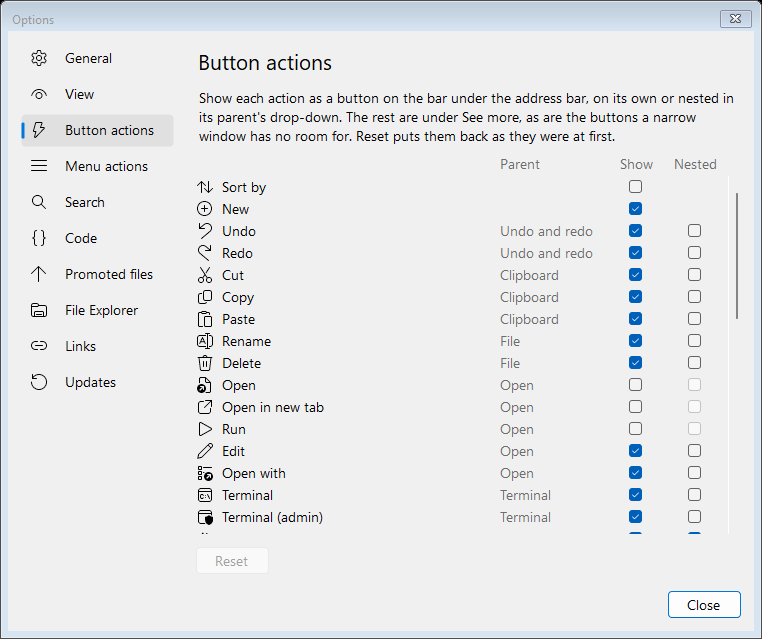
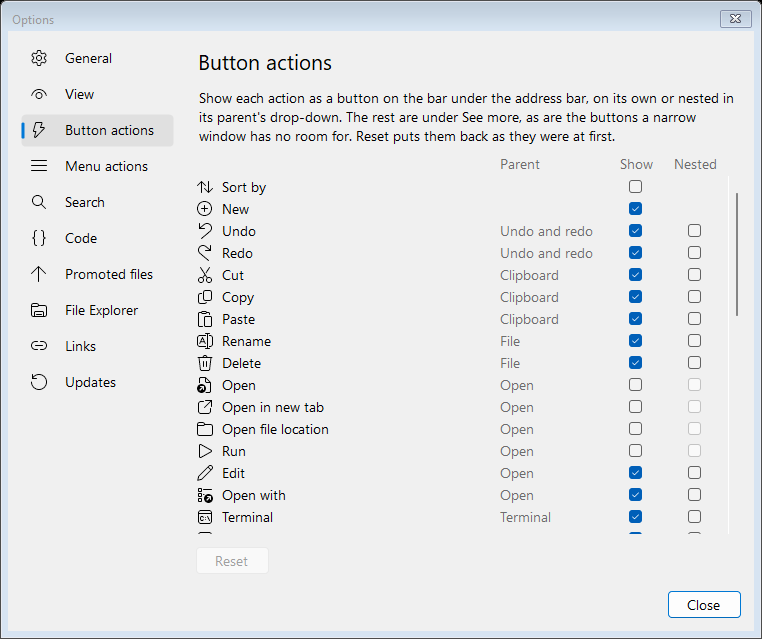
An item the search box found has Open file location on its right-click menu, Open folder location for a folder, as Explorer's results have: it opens the folder the item is in with the item selected, the search cleared, as Reveal does. Before, the search found items all through the folders beneath, b

Changed region(s): [[0.2415, 0.6541, 0.4226, 0.8326], [0.664, 0.7731, 0.7244, 0.8028], [0.815, 0.6839, 0.8451, 0.7136]]

diff --git a/src/Lode.Tests/FolderList/FolderViewTests.cs b/src/Lode.Tests/FolderList/FolderViewTests.cs
@@ -267,6 +267,60 @@ public class FolderViewTests
                 """);
     }
 
+    // As Explorer's results have: an item a search found has Open file location, or Open folder
+    // location for a folder, which opens the folder it is in with it selected, the search
+    // cleared. Not an item listed in the folder, nor several found at once.
+    [Test]
+    public async Task OpenFileLocationGoesToWhereAFoundItemIs()
+    {
+        using var fixture = Fixture.Create();
+        using var view = await Open(fixture.Root);
+        QuickMenu.Command? Location(params string[] names) =>
+            view.ItemCommands(view.Entries.Where(_ => names.Contains(_.Name)).ToList())
+                .SingleOrDefault(_ => _?.Id == "openFileLocation");
+
+        var listed = Location("notes.aleph");
+        view.Filter = "e";
+        await Pump.Loaded(view);
+        var several = Location("guide.aleph", "main.aleph");
+        var folder = Location("Deep");
+        var file = Location("guide.aleph");
+
+        await Assert.That(listed).IsNull();
+        await Assert.That(several).IsNull();
+        await Assert.That(folder!.Text).IsEqualTo("Open folder location");
+        await Assert.That(file!.Text).IsEqualTo("Open file location");
+
+        file.Action();
+        await Pump.Loaded(view);
+        await Verify(Describe(view, fixture))
+            .Snapshot(
+                """
+                {
+                  path: Projects/Docs,
+                  status: 1 item    1 item selected  900 bytes,
+                  filter: ,
+                  rows: [
+                    file    guide.aleph  900 bytes
+                  ],
+                  selected: [
+                    guide.aleph
+                  ]
+                }
+                """);
+
+        view.Navigate(fixture.Root);
+        await Pump.Loaded(view);
+        view.Filter = "e";
+        await Pump.Loaded(view);
+        Location("Deep")!.Action();
+        await Pump.Loaded(view);
+
+        await Assert.That(view.CurrentPath).IsEqualTo(fixture.At("Source"));
+        await Assert.That(view.Filter).IsEqualTo("");
+        await Assert.That(view.SelectedEntries().Select(_ => _.Name)).IsEquivalentTo(["Deep"]);
+    }
+
     // It is a shortcut to the file: deleting or renaming it from the root does nothing, nor
     // does renaming another item selected with it.
     [Test]

diff --git a/src/Lode/FolderList/FolderView.cs b/src/Lode/FolderList/FolderView.cs
@@ -5636,6 +5636,17 @@ sealed class FolderView : UserControl
             LodeActions.Command("open", () => OpenEntries(selection))
         };
 
+        // What a search found, as Explorer's results do: its folder, opened with it selected,
+        // the search cleared.
+        if (IsSearch &&
+            selection is [{IsPlace: false} found])
+        {
+            commands.Add(LodeActions.Command(
+                "openFileLocation",
+                () => Reveal(found.FullPath),
+                text: found.IsDirectory ? "Open folder location" : null));
+        }
+
         // What applies to a folder applies to each of several: a terminal tab for each, git
         // across the repositories of them all.
         List<string> folders = [];

diff --git a/src/Lode/Menus/LodeActions.cs b/src/Lode/Menus/LodeActions.cs
@@ -74,6 +74,7 @@ static class LodeActions
         new("delete", "Delete", Icons.Delete, 1, Button: true, Menu: true, "Delete", Parent: file),
         new("open", "Open", Icons.Open, 2, Button: false, Menu: true, Parent: open),
         new("openInNewTab", "Open in new tab", Icons.OpenInNewTab, 2, Button: false, Menu: true, Parent: open),
+        new("openFileLocation", "Open file location", Icons.Folder, 2, Button: false, Menu: true, Parent: open),
         new("run", "Run", Icons.Run, 2, Button: false, Menu: true, Parent: open),
         new("edit", "Edit", Icons.Edit, 2, Button: true, Menu: true, Parent: open),
         new("openWith", "Open with", Icons.OpenWith, 2, Button: true, Menu: true, Submenu: true, Parent: open),

diff --git a/src/Lode.Tests/Window/WindowsTests.cs b/src/Lode.Tests/Window/WindowsTests.cs
@@ -1975,6 +1975,7 @@ public class WindowsTests
                   ----,
                   Open,
                   Open in new tab (disabled),
+                  Open file location (disabled),
                   Run (disabled),
                   ----,
                   Pin to Quick access (disabled),
@@ -2040,6 +2041,7 @@ public class WindowsTests
                     ----,
                     Open,
                     Open in new tab (disabled),
+                    Open file location (disabled),
                     Run (disabled),
                     Open with,
                     Terminal,

diff --git a/readme.md b/readme.md
@@ -296,7 +296,7 @@ Each has **Open in Lode**, and **Revert** to give the links back.
  * <a id="undo"></a>**Undo** (Ctrl+Z) and **Redo** (Ctrl+Y), across every window: renames, moves, copies, deletes to the Recycle Bin, and new items. A delete is undone as the Recycle Bin's Restore does it on all its items selected: in one go, with one prompt for all those with something of the same name back where they were. Permanent deletes can't be undone.
  * **Drag and drop**, with Explorer and other apps. The folder a drag would drop into is highlighted. In the tree, a folder held over opens, and the tree scrolls at its edges. A tab held over switches to it, as in Explorer; drop on a tab, or on a folder in the address bar, and it goes into that folder. Drag with the right button to choose Copy here, Move here or Create shortcuts here. Files that aren't on disk, as Explorer takes them, are copied in too: an attachment dragged from Outlook, a photo from a phone, what is in a zip Explorer has open. Each comes with its name, folders and times, through Windows' prompt for anything of the same name there, and Ctrl+Z undoes the copy; a name that would go outside the folder, or that Windows can't have or keeps for a device, is left out, and said to be. From a source that says it can be read once the drop is over, it is read in the background; from one that can't, before the drop returns, as Explorer reads it.
  * **Zips and tars**: **Compress to ZIP file**, **Extract All**, **Extract here** and **Extract to…**, which picks the folder, in the Actions panel, undoable. Extracted into a folder holding something of the same name, what is extracted is moved into place by the shell, which asks, as Explorer does, whether to replace, skip or compare each file there already. Double-click a zip to go into it as a folder, without changing it; what is opened, copied or dragged from it is extracted first, in the background. A drag starts once what it carries is out, with the button still held, the status bar saying how far it has got; let go, or press Esc, before then to stop it. A tar, `.tar`, `.tar.gz` or `.tgz`, is extracted and gone into as a zip is, leaving out its links, which could lead outside the folder; Lode doesn't make one. 7z and rar archives aren't opened, which would need a library.
- * <a id="search-box"></a>**Search box**: type part of a name, or `*.csproj`. The folder's matches show at once, then those in every folder beneath, with a **Folder** column. What Lode renames, moves or deletes among them shows as it now is, and goes where it no longer matches. A new folder or file, a paste or an extract that it doesn't match clears it, so what was made shows, selected. In a repository it leaves out what git ignores, and `.git`. It stops at 100,000. **Search inside the files**, or Ctrl+Enter, searches with Find in Files instead.
+ * <a id="search-box"></a>**Search box**: type part of a name, or `*.csproj`. The folder's matches show at once, then those in every folder beneath, with a **Folder** column. What Lode renames, moves or deletes among them shows as it now is, and goes where it no longer matches. Right-click one for **Open file location**, or **Open folder location** for a folder, as in Explorer's results: its folder opens with it selected, and the box is cleared. A new folder or file, a paste or an extract that it doesn't match clears it, so what was made shows, selected. In a repository it leaves out what git ignores, and `.git`. It stops at 100,000. **Search inside the files**, or Ctrl+Enter, searches with Find in Files instead.
 
    ![Filtered](src/Lode.Tests/Window/MainFormTests.Filtered.verified.png)
 
